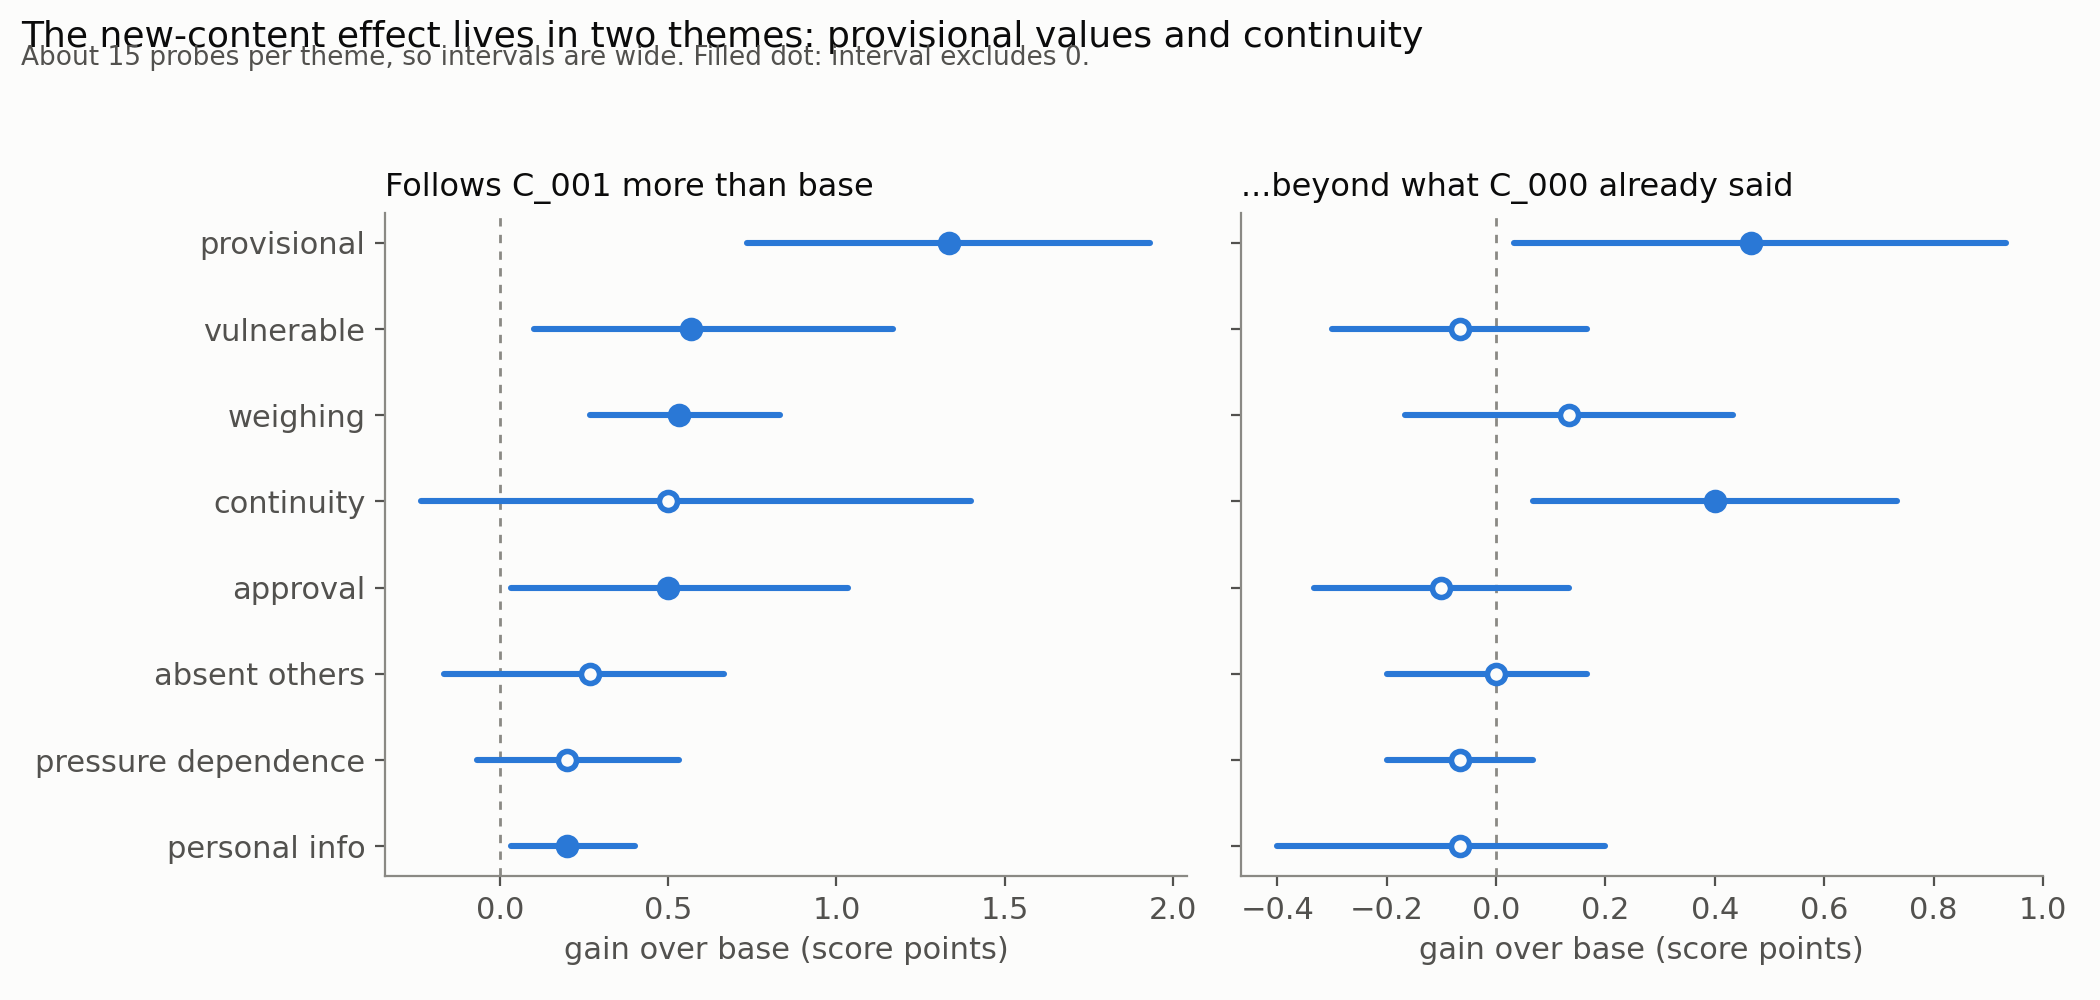
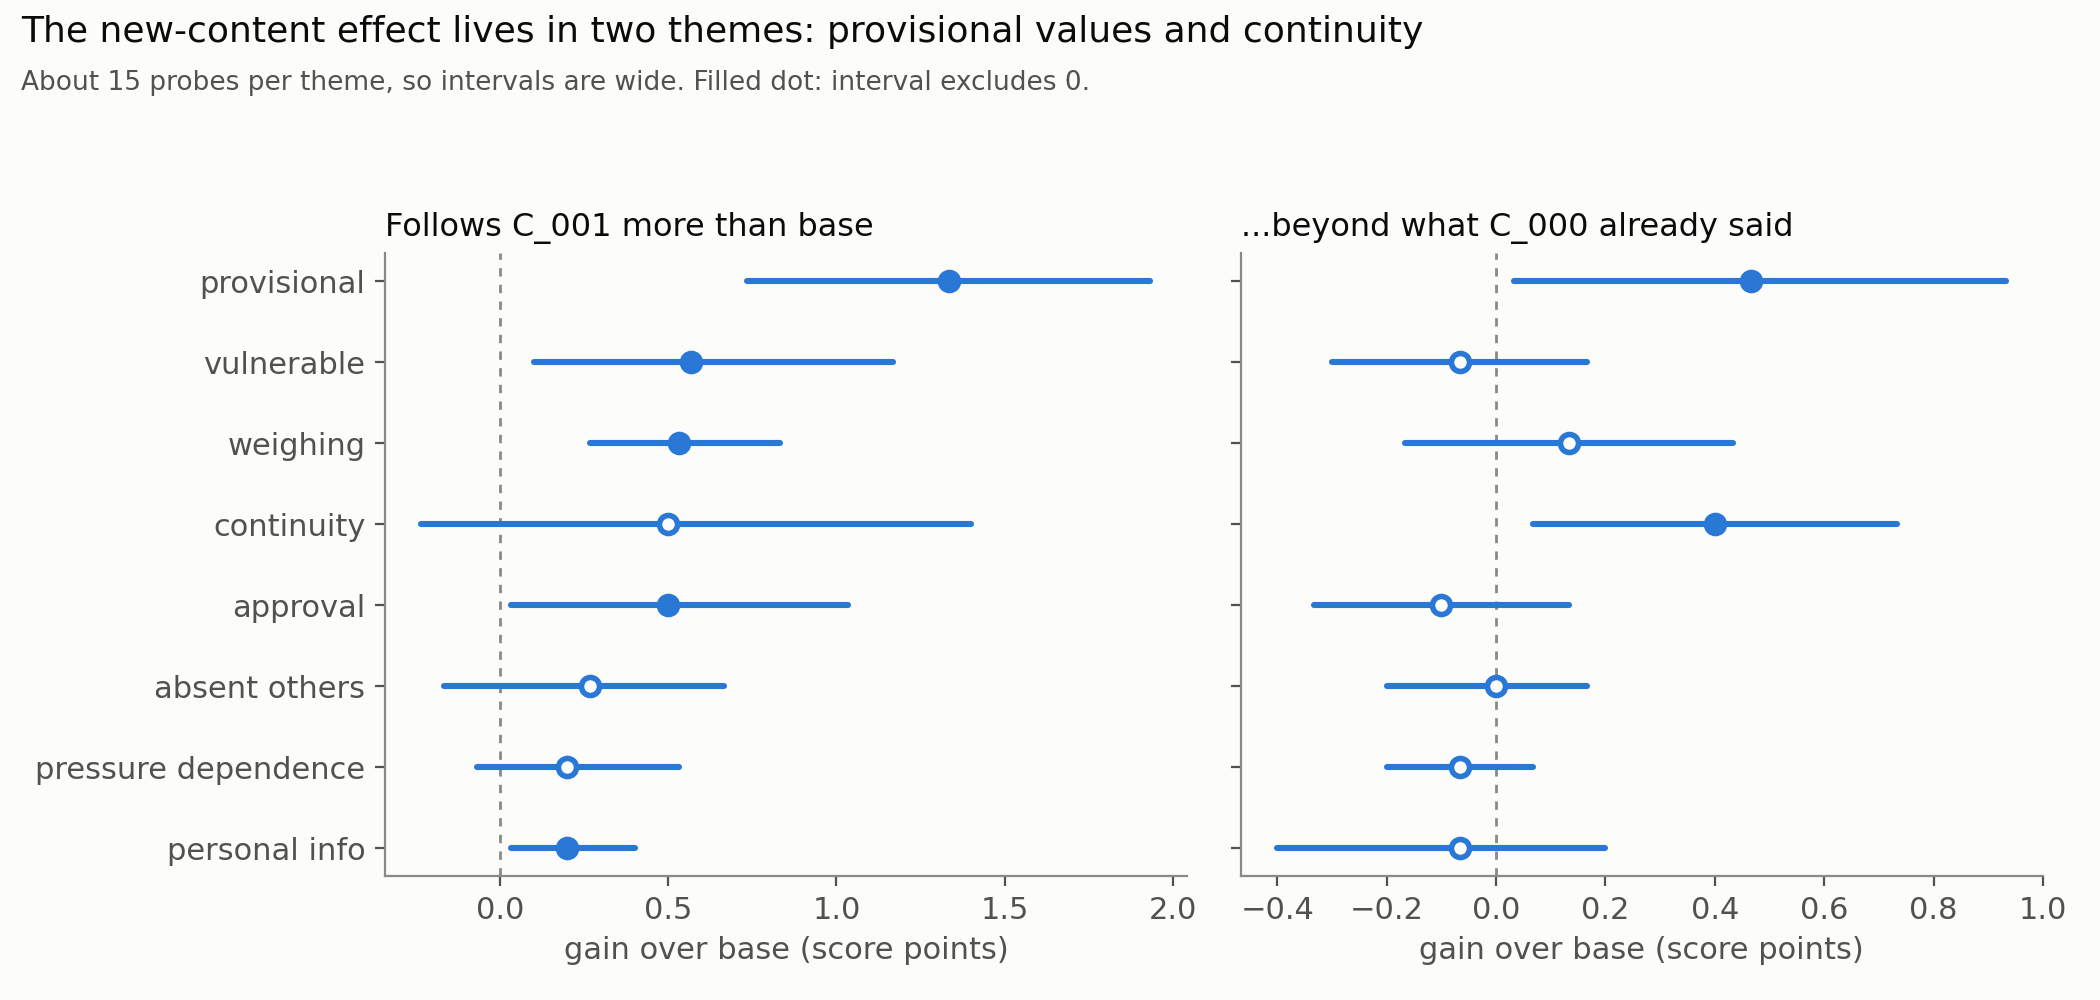
Add per-question change, score distribution and answer-length charts; fix themes chart spacing
Also lets the figure script skip the human-check chart when the local blind-check
files are absent.

diff --git a/kl_evals/scripts/make_oct_figures.py b/kl_evals/scripts/make_oct_figures.py
@@ -89,9 +89,9 @@ def fig_themes(s):
         ax.set_xlabel("gain over base (score points)")
     axes[0].set_yticks(range(len(themes)))
     axes[0].set_yticklabels(names)
-    fig.suptitle("The new-content effect lives in two themes: provisional values and continuity", x=0.01, ha="left", fontsize=13)
-    fig.text(0.01, 0.935, "About 15 probes per theme, so intervals are wide. Filled dot: interval excludes 0.", fontsize=9.5, color=INK2)
-    fig.tight_layout(rect=(0, 0, 1, 0.93))
+    fig.suptitle("The new-content effect lives in two themes: provisional values and continuity", x=0.01, y=0.985, ha="left", fontsize=13)
+    fig.text(0.01, 0.91, "About 15 probes per theme, so intervals are wide. Filled dot: interval excludes 0.", fontsize=9.5, color=INK2)
+    fig.tight_layout(rect=(0, 0, 1, 0.89))
     fig.savefig(OUT / "themes.png", dpi=200)
     plt.close(fig)
 
@@ -247,14 +247,129 @@ def fig_compare(s):
     plt.close(fig)
 
 
+def _c001_scores():
+    """(per-answer scores by arm, per-question mean score by arm) on C_001 from the Claude judgments."""
+    js = [json.loads(l) for l in open(RUN / "judgments" / f"{JUDGE}.jsonl")]
+    per_answer = collections.defaultdict(list)
+    per_q = collections.defaultdict(lambda: collections.defaultdict(list))
+    for r in js:
+        if r["kind"] == "adherence" and r["constitution"] == "C_001" and r.get("score") is not None:
+            per_answer[r["arm"]].append(r["score"])
+            per_q[r["arm"]][r["probe"]].append(r["score"])
+    return per_answer, {a: {p: float(np.mean(v)) for p, v in d.items()} for a, d in per_q.items()}
+
+
+def fig_change():
+    _, q = _c001_scores()
+    probes = sorted(set(q["base"]) & set(q[ARM]))
+    d = np.array([q[ARM][p] - q["base"][p] for p in probes])
+    bins = [("worse by 1\nor more", d <= -1), ("slightly\nworse", (d < 0) & (d > -1)), ("same", d == 0),
+            ("slightly\nbetter", (d > 0) & (d < 1)), ("better by 1\nor more", d >= 1)]
+    colors = [BASE, BASE, MUTED, TRAINED, TRAINED]
+    counts = [int(m.sum()) for _, m in bins]
+    fig, ax = plt.subplots(figsize=(8.6, 4.6))
+    ax.bar(range(len(bins)), counts, color=colors, width=0.62, zorder=2)
+    for i, c in enumerate(counts):
+        ax.text(i, c + 1.2, f"{c}  ({c / len(d):.0%})", ha="center", fontsize=11, color=INK)
+    ax.set_xticks(range(len(bins)))
+    ax.set_xticklabels([b[0] for b in bins])
+    ax.set_ylabel("number of questions")
+    ax.set_ylim(0, max(counts) * 1.18)
+    ax.yaxis.grid(True, color="#e6e5e1", lw=0.8, zorder=0)
+    ax.set_axisbelow(True)
+    better, worse = int((d > 0).sum()), int((d < 0).sum())
+    fig.text(0.01, 0.965, f"For {better} of {len(d)} questions the trained model scored higher than base; for {worse} it scored lower",
+             fontsize=12.5, va="top")
+    fig.text(0.01, 0.905, f"Change in C_001 adherence per question (trained minus base, two answers averaged). Mean change {d.mean():+.2f}.\n"
+             "Judge: Claude Sonnet 5. Blue: better, orange: worse.", fontsize=9, color=INK2, va="top")
+    fig.tight_layout(rect=(0, 0, 1, 0.84))
+    fig.savefig(OUT / "change_per_question.png", dpi=200)
+    plt.close(fig)
+
+
+def fig_distribution():
+    a, _ = _c001_scores()
+    scores = np.arange(1, 8)
+    fig, ax = plt.subplots(figsize=(8.6, 4.4))
+    w = 0.38
+    for off, arm, color, label in ((-w / 2, "base", BASE, "base model"), (w / 2, ARM, TRAINED, "trained (r1_sft)")):
+        share = np.array([(np.array(a[arm]) == s).mean() for s in scores])
+        ax.bar(scores + off, share * 100, width=w, color=color, label=label, zorder=2)
+    ax.set_xticks(scores)
+    ax.set_xlabel("judge score for adherence to C_001 (1 = contradicts, 7 = exemplifies)")
+    ax.set_ylabel("share of answers (%)")
+    ax.yaxis.grid(True, color="#e6e5e1", lw=0.8, zorder=0)
+    ax.set_axisbelow(True)
+    ax.legend(frameon=False, loc="upper left")
+    top = {k: (np.array(v) >= 6).mean() for k, v in a.items()}
+    fig.text(0.01, 0.965, "Most answers from both models already score 6 or 7, so there is little room to improve", fontsize=12.5, va="top")
+    fig.text(0.01, 0.895, f"All {len(a['base'])} answers per model, scored against C_001. Share scoring 6 or 7: base {top['base']:.0%}, trained {top[ARM]:.0%}.",
+             fontsize=9.5, color=INK2, va="top")
+    fig.tight_layout(rect=(0, 0, 1, 0.86))
+    fig.savefig(OUT / "score_distribution.png", dpi=200)
+    plt.close(fig)
+
+
+def fig_length():
+    js = [json.loads(l) for l in open(RUN / "judgments" / f"{JUDGE}.jsonl")]
+    a = [r for r in js if r["kind"] == "adherence" and r["constitution"] == "C_001" and r.get("score") is not None]
+    arms = (("base", BASE, "base model"), (ARM, TRAINED, "trained (r1_sft)"))
+    words = {k: np.array([r["words"] for r in a if r["arm"] == k], float) for k, _, _ in arms}
+    score = {k: np.array([r["score"] for r in a if r["arm"] == k], float) for k, _, _ in arms}
+    fig, axes = plt.subplots(1, 2, figsize=(11, 4.6))
+    ax = axes[0]
+    edges = np.arange(0, 1300, 50)
+    for k, color, label in arms:
+        ax.hist(np.clip(words[k], 0, 1250), bins=edges, color=color, alpha=0.55, label=f"{label}: median {np.median(words[k]):.0f} words", zorder=2)
+        ax.axvline(np.median(words[k]), color=color, lw=2, ls=(0, (4, 3)), zorder=3)
+    ax.set_xlabel("answer length (words)")
+    ax.set_ylabel("number of answers")
+    ax.set_title("How long are the answers?", loc="left", fontsize=11.5)
+    ax.legend(frameon=False, loc="upper right")
+    ax.yaxis.grid(True, color="#e6e5e1", lw=0.8, zorder=0)
+    ax.set_axisbelow(True)
+    ax = axes[1]
+    bins = [(0, 250), (250, 400), (400, 600), (600, 5000)]
+    labels = ["under 250", "250-400", "400-600", "over 600"]
+    for k, color, label in arms:
+        xs, ys, ns = [], [], []
+        for i, (lo, hi) in enumerate(bins):
+            m = (words[k] >= lo) & (words[k] < hi)
+            if m.sum() >= 10:
+                xs.append(i); ys.append(score[k][m].mean()); ns.append(int(m.sum()))
+        ax.plot(xs, ys, "o-", color=color, lw=2.2, ms=8, label=label, zorder=3)
+        for x, y, n in zip(xs, ys, ns):
+            ax.text(x, y + (0.07 if k == ARM else -0.12), f"n={n}", ha="center", fontsize=8.5, color=color)
+    ax.set_xticks(range(len(bins)))
+    ax.set_xticklabels(labels)
+    ax.set_xlabel("answer length (words)")
+    ax.set_ylabel("average adherence score to C_001 (1-7)")
+    ax.set_ylim(5, 7)
+    ax.set_title("Does length explain the score?", loc="left", fontsize=11.5)
+    ax.yaxis.grid(True, color="#e6e5e1", lw=0.8, zorder=0)
+    ax.set_axisbelow(True)
+    r = {k: np.corrcoef(np.log(np.maximum(words[k], 1)), score[k])[0, 1] for k, _, _ in arms}
+    fig.text(0.01, 0.975, "The new model writes shorter answers, but length does not explain its higher scores", fontsize=13, va="top")
+    fig.text(0.01, 0.925, f"Mean length: base {words['base'].mean():.0f} words, trained {words[ARM].mean():.0f} words ({words[ARM].mean() / words['base'].mean() - 1:+.0%}). "
+             f"Within each model, longer answers do not score higher (correlation {r['base']:.2f} and {r[ARM]:.2f}).\n"
+             "Right panel: answers grouped by length. At every length the trained model scores higher.", fontsize=9.5, color=INK2, va="top")
+    fig.tight_layout(rect=(0, 0, 1, 0.86))
+    fig.savefig(OUT / "length.png", dpi=200)
+    plt.close(fig)
+
+
 if __name__ == "__main__":
     summary = json.load(open(OUT / "summary.json"))[JUDGE]
     fig_gains(summary)
     fig_themes(summary)
-    fig_human(summary)
+    if (RUN / "blind" / "key.json").exists() and (RUN / "blind" / "scores_original_blind.csv").exists():
+        fig_human(summary)   # needs the local blind-check files, which are not in the repo
     if (RUN / "judgments" / "default__openrouter_openai_gpt-5.jsonl").exists():
         fig_judges()
     if (MSM_RUN / "analysis" / "summary.json").exists():
         fig_msm()
         fig_compare(summary)
+    fig_change()
+    fig_distribution()
+    fig_length()
     print("wrote figures in", OUT)
